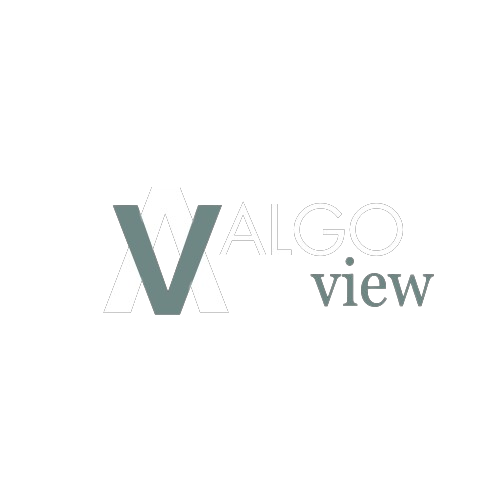
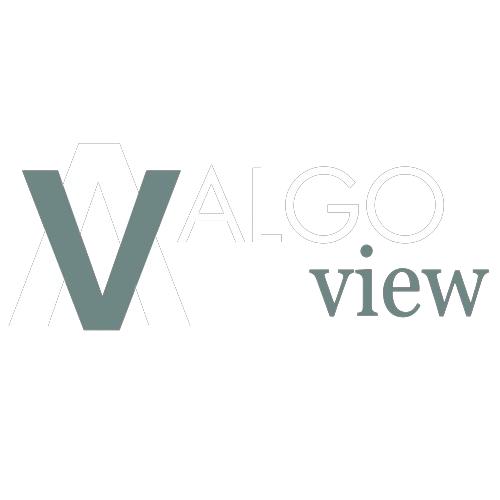
On branch main  Your branch is up to date with 'origin/main'.
Changes to be committed:
modified:   frontend/src/App.css
	modified:   frontend/src/App.jsx
modified:   frontend/src/Components/Navbar.jsx
modified:   frontend/src/Pages/Searching/BinarySearch.jsx
	new file:   frontend/src/Pages/Searching/BubbleSort.jsx
	modified:   frontend/src/assets/algo1.png

diff --git a/frontend/src/Pages/Searching/BubbleSort.jsx b/frontend/src/Pages/Searching/BubbleSort.jsx
@@ -1,0 +1,147 @@
+import React, { useState } from 'react';
+import { VStack, Text, Button, Box, Input, Flex } from '@chakra-ui/react';
+import SyntaxHighlighter from 'react-syntax-highlighter';
+import { docco } from 'react-syntax-highlighter/dist/esm/styles/hljs';
+
+const BubbleSort = () => {
+    const [array, setArray] = useState([1, 2, 3, 4, 5, 6, 7, 9]);
+    const [currentComparison, setCurrentComparison] = useState([]);
+    const [currentSwap, setCurrentSwap] = useState([]);
+    const [isSorting, setIsSorting] = useState(false);
+    const [animations, setAnimations] = useState([]);
+    const [sortedArray, setSortedArray] = useState([]);
+    const [randomArraySize, setRandomArraySize] = useState(8);
+
+    const generateRandomArray = () => {
+        const randomArray = Array.from({ length: randomArraySize }, () => Math.floor(Math.random() * 20) + 1);
+        setArray(randomArray);
+        setSortedArray([]);
+        setAnimations([]);
+        setCurrentComparison([]);
+        setCurrentSwap([]);
+    };
+
+    const bubbleSort = async () => {
+        setIsSorting(true);
+        const n = array.length;
+        const animations = [];
+
+        for (let i = 0; i < n - 1; i++) {
+            for (let j = 0; j < n - i - 1; j++) {
+                setCurrentComparison([j, j + 1]);
+                await new Promise((resolve) => setTimeout(resolve, 800));
+
+                if (array[j] > array[j + 1]) {
+                    setCurrentSwap([j, j + 1]);
+                    await new Promise((resolve) => setTimeout(resolve, 800));
+
+                    const temp = array[j];
+                    array[j] = array[j + 1];
+                    array[j + 1] = temp;
+
+                    animations.push([...array]);
+                }
+            }
+        }
+
+        setCurrentComparison([]);
+        setCurrentSwap([]);
+        setIsSorting(false);
+        setSortedArray([...array]);
+        setAnimations([...animations]);
+    };
+
+    return (
+        <>
+            <VStack height="max-content" bg="#0A1B1E" p={20} spacing={4} align="center">
+                <Text color="#fff" fontSize="xl" fontWeight="bold">
+                    Bubble Sort Visualization
+                </Text>
+                <Flex>
+                    <Input
+                        color="#fff"
+                        type="number"
+                        placeholder="Enter array size"
+                        value={randomArraySize}
+                        onChange={(e) => setRandomArraySize(e.target.value)}
+                        _placeholder={{
+                          color: '#fff', // Adjust the color to your preference
+                          opacity: '0.7',   // Adjust the opacity if needed
+                      }}
+                    />
+                    <Button ml={5} bg="#6F8784"  width="150px" colorScheme="teal" fontSize={15} onClick={generateRandomArray} >
+                        Random Array
+                    </Button>
+                </Flex>
+                <Flex>
+                    <Button
+                        ml={2}
+                        bg="#6F8784"
+                        colorScheme="teal"
+                        onClick={bubbleSort}
+                        disabled={isSorting}
+                    >
+                        Sort
+                    </Button>
+                </Flex>
+                <Box>
+                    {array.map((value, index) => (
+                        <Box
+                            key={index}
+                            display="inline-block"
+                            textAlign="center"
+                            p={2}
+                            borderRadius="md"
+                            border="1px solid"
+                            borderColor={
+                                currentComparison.includes(index)
+                                    ? 'orange.500'
+                                    : currentSwap.includes(index)
+                                    ? 'red.500'
+                                    : 'gray.300'
+                            }
+                            bg={
+                                sortedArray.length > 0 && sortedArray.includes(value)
+                                    ? 'teal.50'
+                                    : 'white'
+                            }
+                            ml={2}
+                        >
+                            {value}
+                        </Box>
+                    ))}
+                </Box>
+                <Box width="100%" height="10%">
+                    <SyntaxHighlighter language="java" style={docco}>
+                        {`
+public class BubbleSort {
+    public static void bubbleSort(int[] array) {
+        int n = array.length;
+        for (int i = 0; i < n - 1; i++) {
+            for (int j = 0; j < n - i - 1; j++) {
+                if (array[j] > array[j + 1]) {
+                    int temp = array[j];
+                    array[j] = array[j + 1];
+                    array[j + 1] = temp;
+                }
+            }
+        }
+    }
+    
+    public static void main(String[] args) {
+        int[] array = {1, 2, 3, 4, 5, 6, 7, 9};
+        bubbleSort(array);
+        for (int num : array) {
+            System.out.print(num + " ");
+        }
+    }
+}
+                        `}
+                    </SyntaxHighlighter>
+                </Box>
+            </VStack>
+        </>
+    );
+};
+
+export default BubbleSort;

diff --git a/frontend/src/Components/Navbar.jsx b/frontend/src/Components/Navbar.jsx
@@ -24,12 +24,14 @@ import "../App.css";
         <Flex alignItems="center" justifyContent="space-between">
           <div className="logo"></div> 
           <span>Algo</span>
+          <div className="nav"> 
           <HStack spacing={4} display={{ base: "none", md: "flex" }}>
             <Text color="white">Home</Text>
             <Text color="white">About</Text>
             <Text color="white">Services</Text>
-            <Text color="white">Contact</Text>
+            <Text color="white">Contact</Text>           
           </HStack>
+          </div>
         <IconButton
             display={{ base: "block", md: "none" }}
             icon={isOpen ? <CloseIcon /> : <HamburgerIcon />}
@@ -53,7 +55,7 @@ import "../App.css";
           </VStack>
         </Box>
       </Box>
-      <Divider orientation="horizontal"/>
+      {/*<Divider orientation="horizontal"/>*/}
      </>
     );
   };

diff --git a/frontend/src/App.jsx b/frontend/src/App.jsx
@@ -2,6 +2,7 @@ import Stack from "./Components/Stack/Stack"
 import { ChakraProvider } from '@chakra-ui/react'
 import LinearSearch from "./Pages/Searching/LinearSearch"
 import BinarySearch from "./Pages/Searching/BinarySearch"
+import BubbleSort from "./Pages/Searching/BubbleSort"
 function App() {
 
   return (
@@ -9,6 +10,7 @@ function App() {
     <ChakraProvider>
       <LinearSearch/>
       <BinarySearch/>
+      <BubbleSort/>
     {/* <Stack/> */}
     </ChakraProvider>
   </>

diff --git a/frontend/src/Pages/Searching/BinarySearch.jsx b/frontend/src/Pages/Searching/BinarySearch.jsx
@@ -3,7 +3,6 @@ import { VStack, Text, Button, Box, Input, Flex } from '@chakra-ui/react';
 import SyntaxHighlighter from 'react-syntax-highlighter';
 import { docco } from 'react-syntax-highlighter/dist/esm/styles/hljs';
 
-
 const BinarySearch = () => {
     const [sortedArray, setSortedArray] = useState([1, 2, 3, 4, 5, 6, 7, 9]);
     const [searchValue, setSearchValue] = useState('');

diff --git a/frontend/src/App.css b/frontend/src/App.css
@@ -1,6 +1,15 @@
 .logo{
     background: url(./assets/algo1.png) no-repeat;
-    height: 50px;
-    width: 100px;
+    height: 70px;
+    width: 750px;
     background-size: contain;
+    margin-left: 20px; 
 }
+.nav{
+    margin-right: 20px; 
+    font-size: 16px;
+    font-weight: bold; 
+    text-decoration: underline;
+    /*transition: text-decoration 0.3s ease;*/
+}
+
